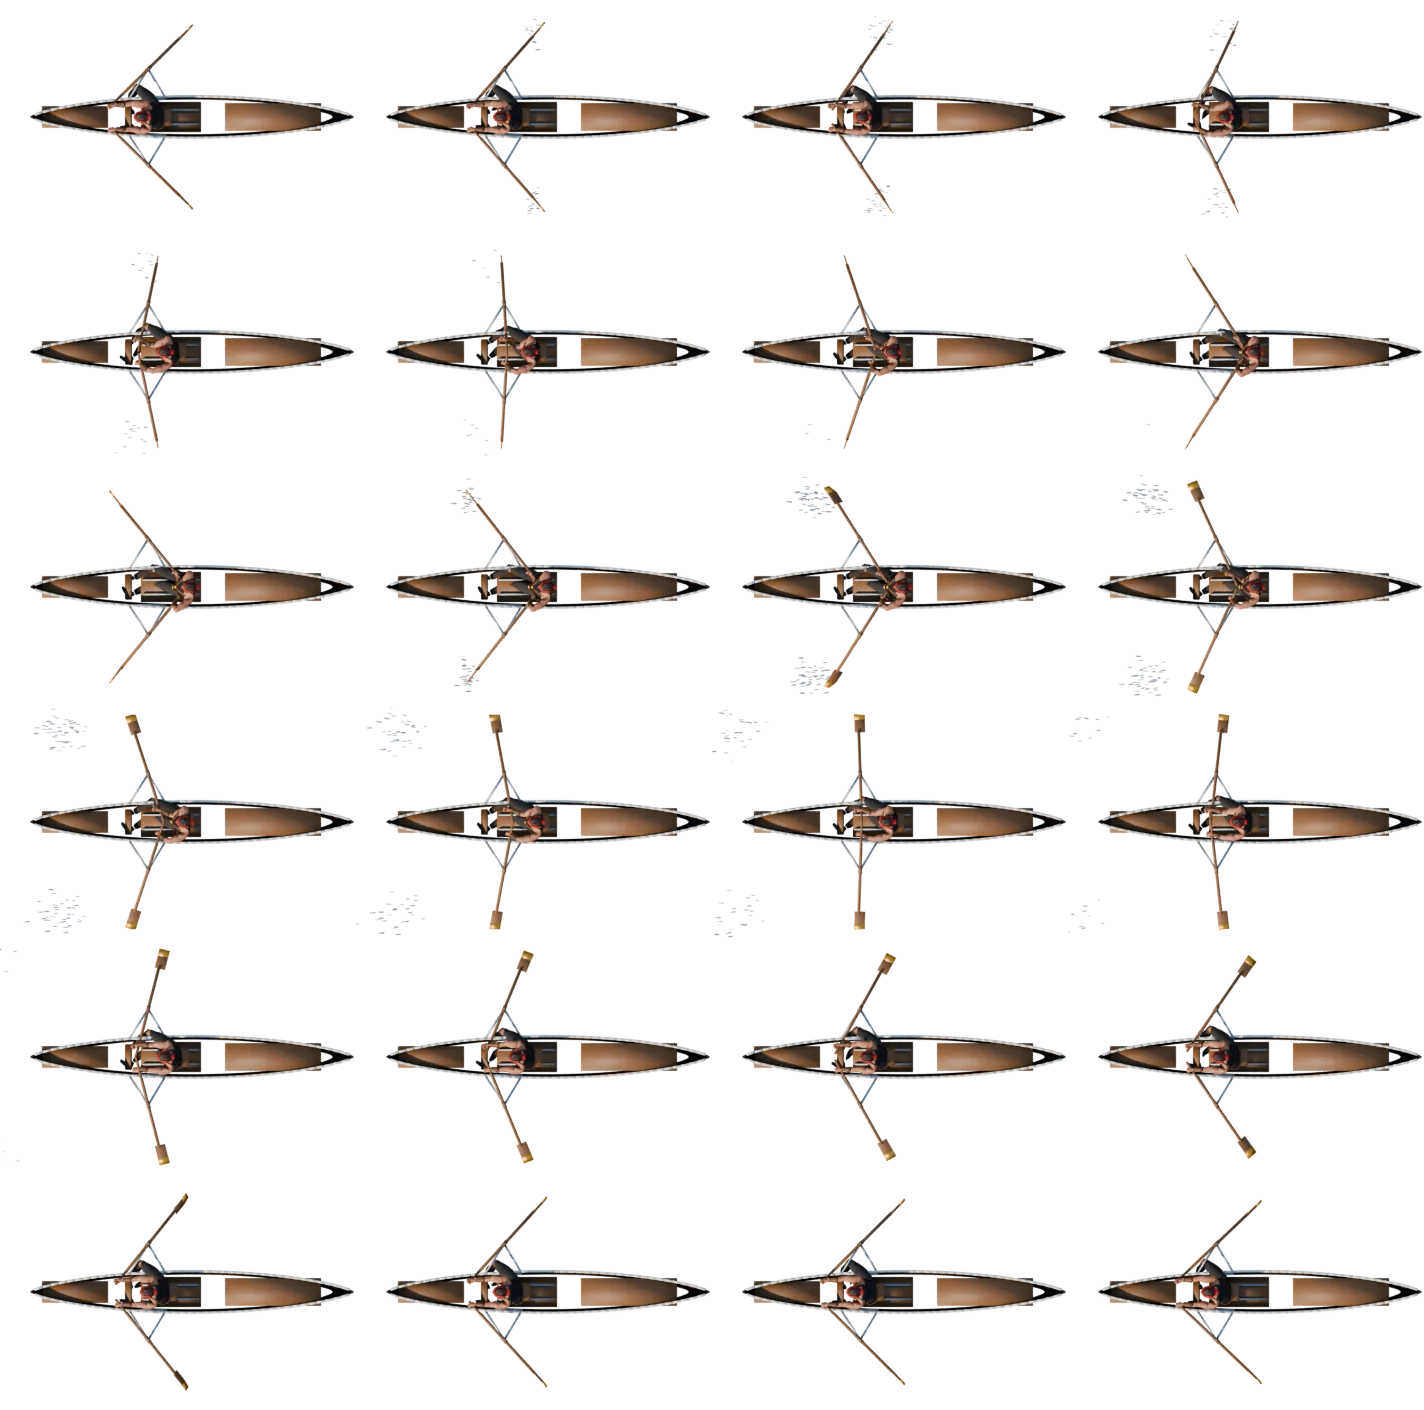
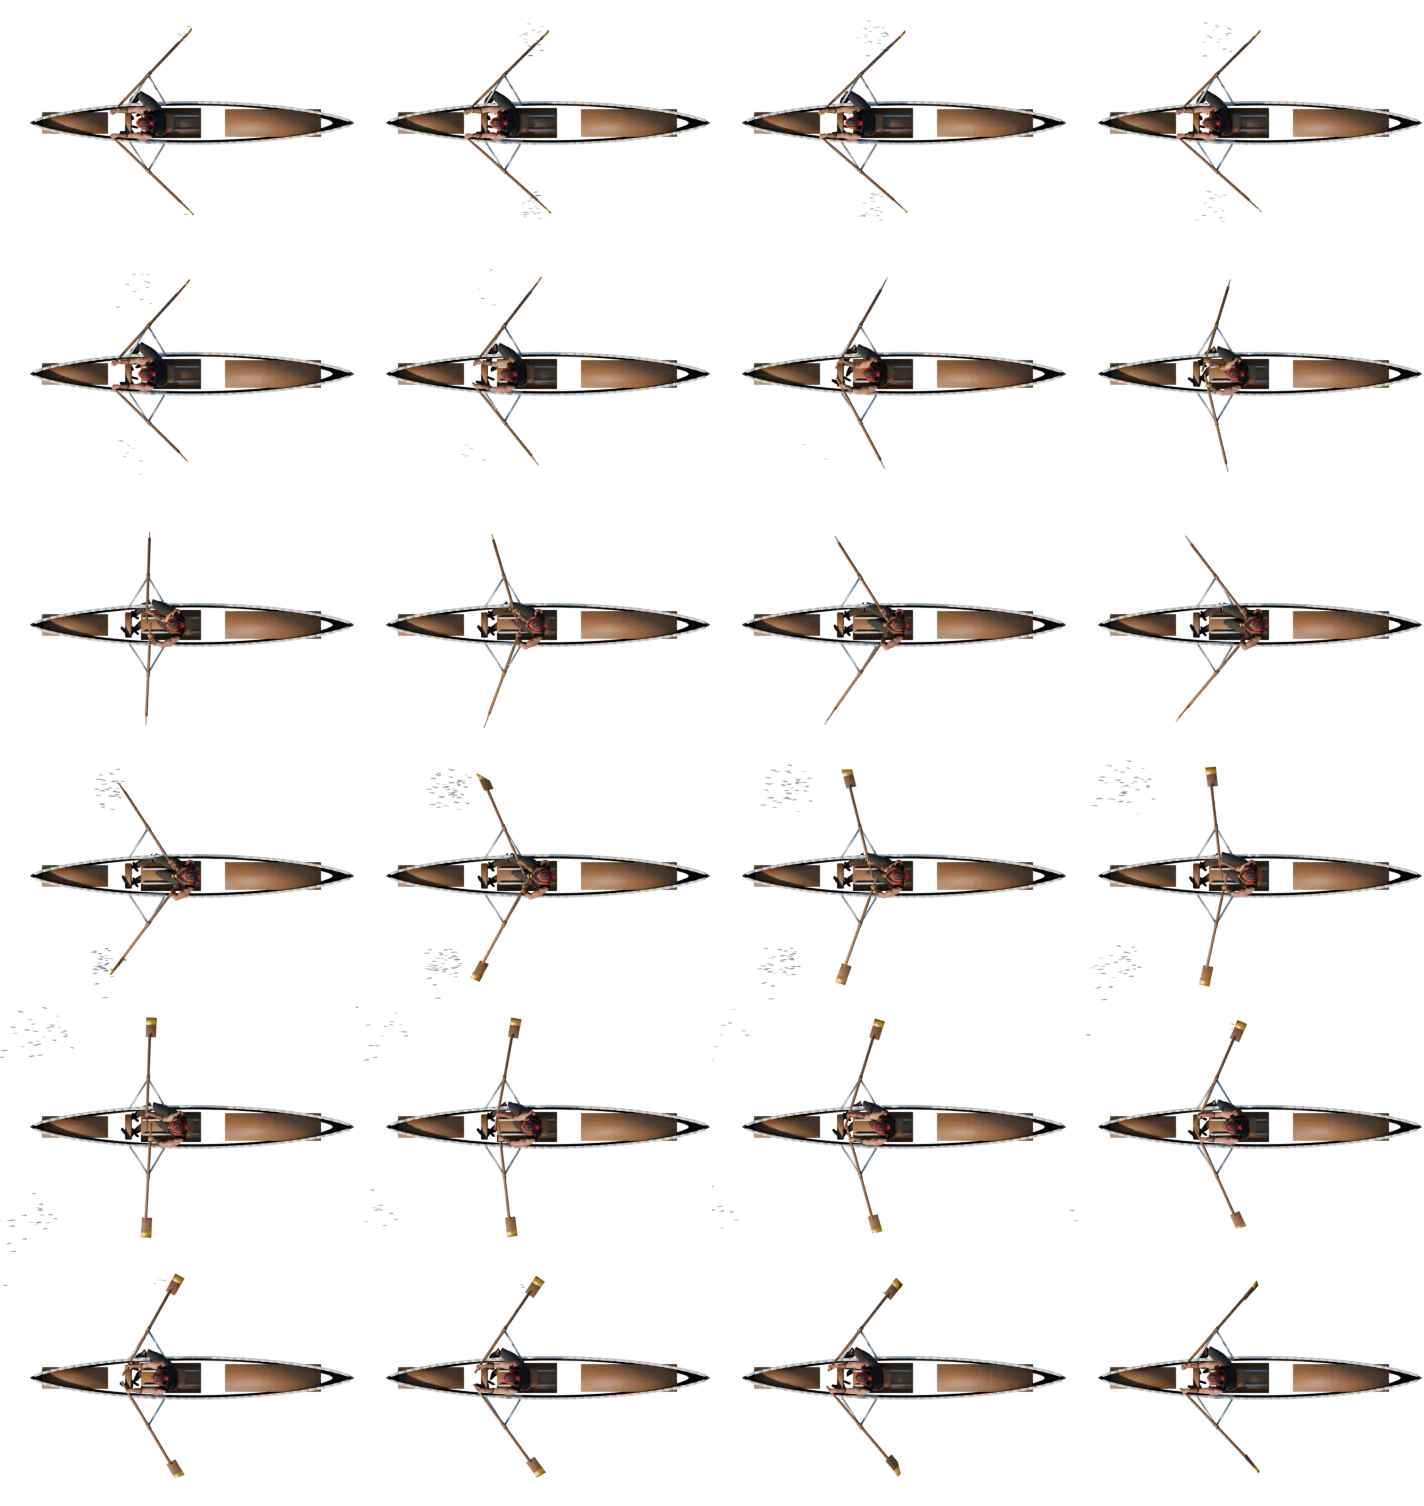
Remero realista: agarre del remo, pulgar, ropa que tapa el cuerpo y torso del polinesio
Claude-Session: https://claude.ai/code/session_01YU6HPLHeBifvYsAm3kqgso

diff --git a/src/carrera.js b/src/carrera.js
@@ -504,7 +504,7 @@ const PIEL = '#E2B48C';
 // del render en ese punto. Se descargan al pintar el primer bote de esa clase; mientras, se dibuja el bote vectorial.
 export const REMEROS_ATLAS = {
   '3d': { w: 320, h: 196, cols: 4, n: 24, ancla: [160.0, 118.7], ppm: 81.93 },
-  '2d': { w: 356, h: 235, cols: 4, n: 24, ancla: [148.2, 117.0], ppm: 60.0 },
+  '2d': { w: 356, h: 251, cols: 4, n: 24, ancla: [148.2, 123.0], ppm: 60.0 },
 };
 // La barca de Blender mide 5,4 m: de la popa al escálamo 1,97 m y del escálamo a la proa 3,43 m.
 const BARCA_REAL = { largo: 5.4, proa: 3.43 };

diff --git a/tools/blender/remo_agua/clases.py b/tools/blender/remo_agua/clases.py
@@ -127,6 +127,13 @@ def _toro(nombre, centro, r, grueso, mat, inclina=0.0):
     return o
 
 
+def _vuelta_bota(hexa):
+    """La vuelta de piel de las botas tapa su borde recortado: se queda, teñida como cuero o tela de la clase."""
+    m = _tenir('Pelaje', hexa, 'VueltaBota')
+    for n in ('PelajeBotaL', 'PelajeBotaR'):
+        _poner(n, m)
+
+
 def vestir(clase):
     if clase == 'vikingo':
         return
@@ -142,7 +149,8 @@ def vestir(clase):
         pelo = _tinte('Pelo', (0.25, 0.22, 0.22))
         for n in ('Pelo', 'Barba', 'Bigote', 'Cejas', 'TrenzaBarba'):
             _poner(n, pelo)
-        _ocultar('MantoPelaje', 'TrenzaL', 'TrenzaR', 'Moño', 'AnilloMoño', 'PelajeBota', 'BrocheCapa')
+        _ocultar('MantoPelaje', 'TrenzaL', 'TrenzaR', 'Moño', 'AnilloMoño', 'BrocheCapa')
+        _vuelta_bota('#3A2A1E')
         rojo = _plano('Panuelo', '#B3261E', 0.75)
         o = _esfera('Panuelo', (c.x, c.y, c.z - r.z * 0.25), (r.x * 1.12, r.y * 1.12, r.z * 1.15), rojo, corte=c.z - r.z * 0.05)
         _a_hueso(o)
@@ -160,7 +168,8 @@ def vestir(clase):
         pelo = _tinte('Pelo', (0.12, 0.11, 0.11))
         for n in ('Pelo', 'Cejas', 'Moño'):
             _poner(n, pelo)
-        _ocultar('Barba', 'Bigote', 'TrenzaBarba', 'TrenzaL', 'TrenzaR', 'MantoPelaje', 'PelajeBota', 'Tatuaje', 'BrocheCapa')
+        _ocultar('Barba', 'Bigote', 'TrenzaBarba', 'TrenzaL', 'TrenzaR', 'MantoPelaje', 'Tatuaje', 'BrocheCapa')
+        _vuelta_bota('#4A4D55')
         blanco = _plano('Hachimaki', '#F1EEE6', 0.8)
         z = c.z - r.z * 0.35
         o = _esfera('Hachimaki', (c.x, c.y, z), (r.x * 1.1, r.y * 1.1, 0.022), blanco, seg=40)
@@ -169,12 +178,15 @@ def vestir(clase):
         _a_hueso(disco)
     elif clase == 'polinesio':
         # Torso descubierto con tatuajes, piel más morena, pareo rojo y collar de flores
-        _poner('Cuerpo', _tinte('Piel', (0.62, 0.48, 0.38)))
+        # El cuerpo de MakeHuman no tiene piel bajo la ropa (torso y pies): la camisa y las botas pasan a ser piel
+        piel = _tinte('Piel', (0.62, 0.48, 0.38))
+        for n in ('Cuerpo', 'Gambeson', 'Botas', 'Vendas'):
+            _poner(n, piel)
         _poner('Pantalon', _tenir('Pantalon', '#C2410C'))
         pelo = _tinte('Pelo', (0.15, 0.13, 0.12))
         for n in ('Pelo', 'Cejas', 'Moño'):
             _poner(n, pelo)
-        _ocultar('Gambeson', 'CorreaA', 'CorreaB', 'BrochePecho', 'MantoPelaje', 'Barba', 'Bigote', 'TrenzaBarba', 'TrenzaL', 'TrenzaR',
+        _ocultar('CorreaA', 'CorreaB', 'BrochePecho', 'MantoPelaje', 'Barba', 'Bigote', 'TrenzaBarba', 'TrenzaL', 'TrenzaR',
                  'PelajeBota', 'BrocheCapa', 'Brazales')
         cuello = rig.matrix_world @ rig.data.bones['neck01'].head_local
         flores = [_plano('Flor' + str(i), h, 0.6) for i, h in enumerate(('#F2C230', '#E8483A', '#F5F0E6', '#F06AA0'))]
@@ -191,7 +203,8 @@ def vestir(clase):
         pelo = _tinte('Pelo', (0.35, 0.28, 0.22))
         for n in ('Pelo', 'Cejas'):
             _poner(n, pelo)
-        _ocultar('Barba', 'Bigote', 'TrenzaBarba', 'TrenzaL', 'TrenzaR', 'Moño', 'AnilloMoño', 'MantoPelaje', 'PelajeBota', 'BrocheCapa', 'Tatuaje')
+        _ocultar('Barba', 'Bigote', 'TrenzaBarba', 'TrenzaL', 'TrenzaR', 'Moño', 'AnilloMoño', 'MantoPelaje', 'BrocheCapa', 'Tatuaje')
+        _vuelta_bota('#5A3A22')
         bronce = _plano('Bronce', '#B07A3A', 0.35, 1.0)
         o = _esfera('Galea', (c.x, c.y + 0.005, c.z - r.z * 0.45), (r.x * 1.16, r.y * 1.14, r.z * 1.38), bronce, corte=c.z - r.z * 0.5)
         _a_hueso(o)
@@ -203,6 +216,59 @@ def vestir(clase):
         cresta = _esfera('Cresta', (c.x, c.y + 0.01, tope), (0.024, r.y * 1.15, 0.11), _plano('CrestaRoja', '#A3171B', 0.9),
                          corte=tope, seg=32)
         _a_hueso(cresta)
+    rig.data.pose_position = 'POSE'
+    bpy.context.view_layer.update()
+
+
+def tapar_cuerpo(prendas=('Gambeson', 'Pantalon'), debajo=('Cuerpo', 'Botas', 'Vendas')):
+    """Oculta lo que queda bajo la ropa (piel del torso y los muslos, caña de las botas) para que no la atraviese al
+    doblar hombros y rodillas en la palada. Se mide en la pose de reposo: un vértice se oculta si está dentro de una
+    prenda o a menos de 3,5 cm por debajo de ella, y no cerca de su borde (allí se vería el hueco)."""
+    from mathutils.bvhtree import BVHTree
+    from mathutils.kdtree import KDTree
+    rig.data.pose_position = 'REST'
+    bpy.context.view_layer.update()
+    arboles = []
+    for n in prendas:
+        o = bpy.data.objects.get(n)
+        if not o:
+            continue
+        me = o.data
+        vs = [o.matrix_world @ v.co for v in me.vertices]
+        arboles.append(BVHTree.FromPolygons(vs, [tuple(p.vertices) for p in me.polygons]))
+        caras = {}
+        for p in me.polygons:
+            for e in p.edge_keys:
+                caras[e] = caras.get(e, 0) + 1
+        bordes = {i for e, c in caras.items() if c == 1 for i in e}
+        kd = KDTree(max(1, len(bordes)))
+        for i in bordes:
+            kd.insert(vs[i], i)
+        kd.balance()
+        arboles[-1] = (arboles[-1], kd if bordes else None)
+    for n in debajo:
+        o = bpy.data.objects.get(n)
+        if not o or not arboles:
+            continue
+        ocultos = []
+        for v in o.data.vertices:
+            w = o.matrix_world @ v.co
+            for bvh, kd in arboles:
+                loc, nor, _, d = bvh.find_nearest(w, 0.035)
+                if loc is None or (w - loc).dot(nor) > 0.002:
+                    continue
+                if kd and kd.find(w)[2] < 0.012:
+                    continue
+                ocultos.append(v.index)
+                break
+        if not ocultos:
+            continue
+        g = o.vertex_groups.new(name='BajoLaRopa')
+        g.add(ocultos, 1.0, 'REPLACE')
+        m = o.modifiers.new('BajoLaRopa', 'MASK')
+        m.vertex_group = g.name
+        m.invert_vertex_group = True
+        print('TAPAR', n, len(ocultos), 'de', len(o.data.vertices), flush=True)
     rig.data.pose_position = 'POSE'
     bpy.context.view_layer.update()
 

diff --git a/tools/blender/remo_agua/remo_agua.py b/tools/blender/remo_agua/remo_agua.py
@@ -66,11 +66,12 @@ def _dir(n):
 
 
 X, Y, Z = (1, 0, 0), (0, 1, 0), (0, 0, 1)
-DEDO = {}
+DEDO, PALMA = {}, {}
 for s in 'LR':
     d = _dir('finger3-1.' + s)
     a = (rig.data.bones['finger2-1.' + s].head_local - rig.data.bones['finger5-1.' + s].head_local).normalized()
     palma = d.cross(a) if s == 'L' else a.cross(d)
+    PALMA[s] = tuple(palma.normalized())
     for f in range(1, 6):
         for k in (1, 2, 3):
             n = f'finger{f}-{k}.{s}'
@@ -134,8 +135,10 @@ for f in range(1, PALADA + 2):
             for k in (1, 2, 3):
                 n = f'finger{dd}-{k}.{s}'
                 r[n] = [(DEDO[n], 75 * (0.8 if k == 1 else 1.0))]
-        for k in (2, 3):
-            r[f'finger1-{k}.{s}'] = [(DEDO[f'finger1-{k}.{s}'], 35)]
+        # el pulgar se cierra sobre la caña (gira alrededor de la normal de la palma; en la izquierda, al revés)
+        eje_pulgar = tuple(Vector(PALMA[s]) * (1 if s == 'R' else -1))
+        for k in (1, 2, 3):
+            r[f'finger1-{k}.{s}'] = [(eje_pulgar, 30 if k == 1 else 40)]
     l = {'root': loc('root', (0, desliza, caida)),
          'remo': loc('remo', (0, desliza - 0.25 + py, asiento_z + pz + 0.2 - remo0.z))}
     for n in HUESOS:
@@ -258,6 +261,7 @@ caja('Popa', (0, -1.7, 0.38), (0.36, 1.1, 0.02), MAT['Madera'])
 # ropa del remero y pintura de la barca de cada clase
 exec(open(os.path.join(AQUI, 'clases.py')).read())
 vestir(A.clase)
+tapar_cuerpo()
 pintar_barca(A.clase)
 
 # muestreo de las manos para colocar las horquillas (perno donde el remo queda perpendicular a mitad de palada)
@@ -281,8 +285,15 @@ print('PERNO z', round(pz, 3), 'manos z', manos[:, 2].min().round(3), manos[:, 2
 
 PALAS, REMOS = {}, {}
 for s, lado in ((1, 'L'), (-1, 'R')):
+    # El puño del remo pasa por dentro del puño cerrado (centro de los dedos curvados), no por la muñeca
     mano = bpy.data.objects.new('Mano.' + lado, None); col.objects.link(mano)
-    c = mano.constraints.new('COPY_LOCATION'); c.target = rig; c.subtarget = 'ik_mano.' + lado
+    esc.frame_set(8)
+    mw = rig.matrix_world
+    dedos = [PB[f'finger{d}-{k}.{lado}'] for d in (3, 4) for k in (1, 2, 3)]
+    agarre = sum([mw @ ((p.head + p.tail) / 2) for p in dedos], Vector()) / len(dedos)
+    mano.parent = rig; mano.parent_type = 'BONE'; mano.parent_bone = 'wrist.' + lado
+    bpy.context.view_layer.update()
+    mano.matrix_world = Matrix.Translation(agarre)
     piv = bpy.data.objects.new('Perno.' + lado, None); col.objects.link(piv)
     piv.location = PERNO[lado]
     piv.rotation_euler.z = 0 if lado == 'L' else math.pi
@@ -740,9 +751,9 @@ a, b_ = (int(x) for x in A.frames.split('-'))
 if A.paso:
     a, b_ = 1, A.paso
 for f in range(a, b_ + 1):
-    # con --paso, el fotograma f es la fase (f-1)/paso de la palada; la pala entra en el fotograma 2 de la acción,
+    # con --paso, el fotograma f es la fase (f-1)/paso de la palada contada desde que la pala entra en el agua,
     # que es la fase 0 (el ataque) de palada() en carrera.js
-    t = ((f - 1) * PALADA / A.paso + 1) / FPS if A.paso else (f - 1) / FPS
+    t = T_ENT + (f - 1) * PALADA / A.paso / FPS if A.paso else (f - 1) / FPS
     fr = remo_frame(t)
     esc.frame_set(int(fr), subframe=fr - int(fr))
     co, espuma = agua_en(t)
